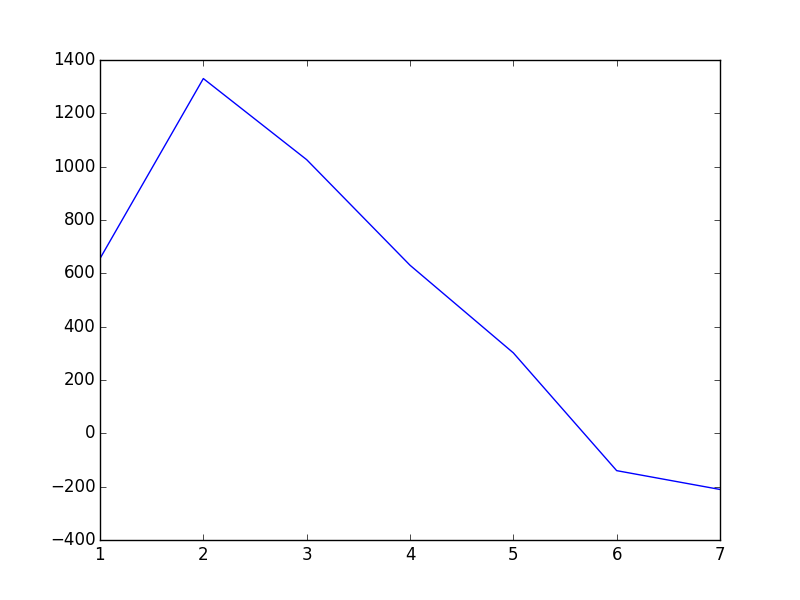
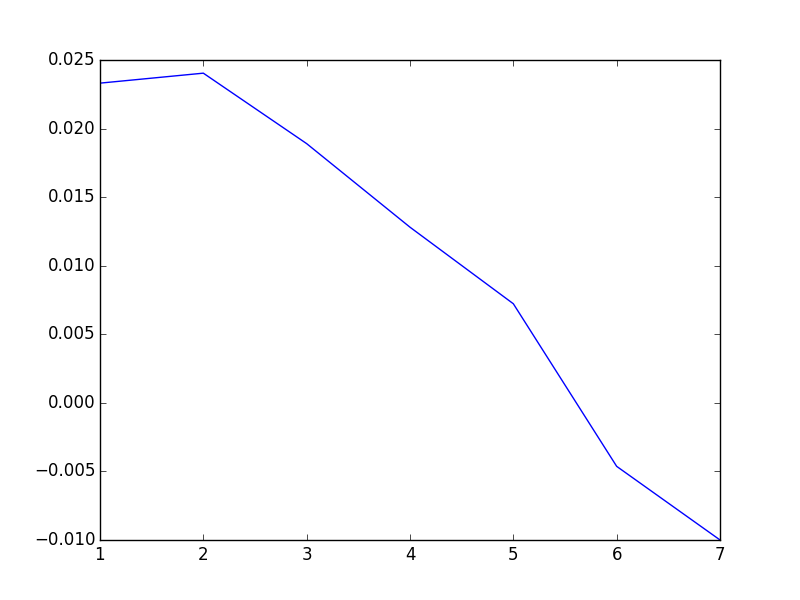
fixed SS utility graphs

diff --git a/Python/OUTPUT/SS_graphs.py b/Python/OUTPUT/SS_graphs.py
@@ -31,12 +31,13 @@ BQ_init = BQ
 Lssmat_init = Lssmat
 cssmat_init = cssmat
 
-beq_ut = chi_b.reshape(S, 1) * (Kssmat2_init**(1-sigma) -1)/(1-sigma)
-beq_ut[0, :] = 0
+savings = np.zeros((S, J))
+savings[:-1, :] = Kssmat2_init[1:, :]
+savings[-1, :] = BQ_init
+
+beq_ut = chi_b.reshape(S, 1) * (mort_rate.reshape(S, 1)) * (savings**(1-sigma) -1)/(1-sigma)
 utility = ((cssmat_init ** (1-sigma) - 1)/(1- sigma)) + chi_n.reshape(S, 1) * (b_ellipse * (1-(Lssmat_init/ltilde)**upsilon) ** (1/upsilon) + k_ellipse)
-utility[-1] += chi_b[-1] * (BQ_init**(1-sigma)-1) / (1-sigma)
-utility += beq_ut * (1- mort_rate.reshape(S, 1))
-# utility *= mort_rate.reshape(S, 1)
+utility += beq_ut 
 beta_string = np.ones(S) * beta
 for i in xrange(S):
     beta_string[i] = beta_string[i] ** i
@@ -157,12 +158,12 @@ variables = pickle.load(open("SS/ss_vars.pkl", "r"))
 for key in variables:
     globals()[key] = variables[key]
 
-beq_ut = chi_b.reshape(S, 1) * (Kssmat2**(1-sigma)-1)/(1-sigma)
-beq_ut[0, :] = 0
+savings = np.zeros((S, J))
+savings[:-1, :] = Kssmat2[1:, :]
+savings[-1, :] = BQ
+beq_ut = chi_b.reshape(S, 1) * (mort_rate.reshape(S, 1)) * (savings**(1-sigma)-1)/(1-sigma)
 utility = ((cssmat ** (1-sigma) - 1)/(1- sigma)) + chi_n.reshape(S, 1) * (b_ellipse * (1-(Lssmat/ltilde)**upsilon) ** (1/upsilon) + k_ellipse)
-utility[-1] += chi_b[-1] * (BQ**(1-sigma)-1) / (1-sigma)
-# utility *= mort_rate.reshape(S, 1)
-utility += beq_ut * (1- mort_rate.reshape(S, 1))
+utility += beq_ut 
 beta_string = np.ones(S) * beta
 for i in xrange(S):
     beta_string[i] = beta_string[i] ** i
@@ -250,13 +251,13 @@ Kssmat_percdif = (Kssmat - kssmatinit)/ kssmatinit
 BQ_percdif = (BQ - BQ_init)/ BQ_init
 Lssmat_percdif = (Lssmat - Lssmat_init)/ Lssmat_init 
 cssmat_percdif = (cssmat - cssmat_init)/ cssmat_init
-utility_dif = utility - utility_init
+utility_dif = (utility - utility_init) / np.abs(utility_init)
 income_dif = (income - income_init) / income_init
 
 
 plt.figure()
 plt.plot(np.arange(J)+1, utility_dif)
-plt.savefig('SS/lifetime_utility_dif')
+plt.savefig('SS/lifetime_utility_percdif')
 
 fig25 = plt.figure()
 ax25 = fig25.gca(projection='3d')
@@ -264,7 +265,7 @@ ax25.set_xlabel(r'age-$s$')
 ax25.set_ylabel(r'ability-$j$')
 ax25.set_zlabel(r'individual savings $\bar{b}_{j,s}$')
 ax25.plot_surface(X2, Y2, Kssmat_percdif.T, rstride=1, cstride=1, cmap=cmap2)
-plt.savefig('SS/capital_dist_dif')
+plt.savefig('SS/capital_dist_percdif')
 
 plt.figure()
 plt.plot(np.arange(J)+1, BQ_percdif)

diff --git a/Python/OUTPUT_income_tax/SS_graphs.py b/Python/OUTPUT_income_tax/SS_graphs.py
@@ -31,12 +31,13 @@ BQ_init = BQ
 Lssmat_init = Lssmat
 cssmat_init = cssmat
 
-beq_ut = chi_b.reshape(S, 1) * (Kssmat2_init**(1-sigma) -1)/(1-sigma)
-beq_ut[0, :] = 0
+savings = np.zeros((S, J))
+savings[:-1, :] = Kssmat2_init[1:, :]
+savings[-1, :] = BQ_init
+
+beq_ut = chi_b.reshape(S, 1) * (mort_rate.reshape(S, 1)) * (savings**(1-sigma) -1)/(1-sigma)
 utility = ((cssmat_init ** (1-sigma) - 1)/(1- sigma)) + chi_n.reshape(S, 1) * (b_ellipse * (1-(Lssmat_init/ltilde)**upsilon) ** (1/upsilon) + k_ellipse)
-utility[-1] += chi_b[-1] * (BQ_init**(1-sigma)-1) / (1-sigma)
-utility *= mort_rate.reshape(S, 1)
-utility += beq_ut * (1- mort_rate.reshape(S, 1))
+utility += beq_ut 
 beta_string = np.ones(S) * beta
 for i in xrange(S):
     beta_string[i] = beta_string[i] ** i
@@ -157,12 +158,12 @@ variables = pickle.load(open("SS/ss_vars.pkl", "r"))
 for key in variables:
     globals()[key] = variables[key]
 
-beq_ut = chi_b.reshape(S, 1) * (Kssmat2**(1-sigma)-1)/(1-sigma)
-beq_ut[0, :] = 0
+savings = np.zeros((S, J))
+savings[:-1, :] = Kssmat2[1:, :]
+savings[-1, :] = BQ
+beq_ut = chi_b.reshape(S, 1) * (mort_rate.reshape(S, 1)) * (savings**(1-sigma)-1)/(1-sigma)
 utility = ((cssmat ** (1-sigma) - 1)/(1- sigma)) + chi_n.reshape(S, 1) * (b_ellipse * (1-(Lssmat/ltilde)**upsilon) ** (1/upsilon) + k_ellipse)
-utility[-1] += chi_b[-1] * (BQ**(1-sigma)-1) / (1-sigma)
-utility *= mort_rate.reshape(S, 1)
-utility += beq_ut * (1- mort_rate.reshape(S, 1))
+utility += beq_ut 
 beta_string = np.ones(S) * beta
 for i in xrange(S):
     beta_string[i] = beta_string[i] ** i
@@ -250,7 +251,7 @@ Kssmat_percdif = (Kssmat - kssmatinit)/ kssmatinit
 BQ_percdif = (BQ - BQ_init)/ BQ_init
 Lssmat_percdif = (Lssmat - Lssmat_init)/ Lssmat_init 
 cssmat_percdif = (cssmat - cssmat_init)/ cssmat_init
-utility_dif = utility - utility_init
+utility_dif = (utility - utility_init) / np.abs(utility_init)
 income_dif = (income - income_init) / income_init
 
 

diff --git a/Python/OUTPUT_wealth_tax/SS_graphs.py b/Python/OUTPUT_wealth_tax/SS_graphs.py
@@ -31,12 +31,13 @@ BQ_init = BQ
 Lssmat_init = Lssmat
 cssmat_init = cssmat
 
-beq_ut = chi_b.reshape(S, 1) * (Kssmat2_init**(1-sigma) -1)/(1-sigma)
-beq_ut[0, :] = 0
+savings = np.zeros((S, J))
+savings[:-1, :] = Kssmat2_init[1:, :]
+savings[-1, :] = BQ_init
+
+beq_ut = chi_b.reshape(S, 1) * (mort_rate.reshape(S, 1)) * (savings**(1-sigma) -1)/(1-sigma)
 utility = ((cssmat_init ** (1-sigma) - 1)/(1- sigma)) + chi_n.reshape(S, 1) * (b_ellipse * (1-(Lssmat_init/ltilde)**upsilon) ** (1/upsilon) + k_ellipse)
-utility[-1] += chi_b[-1] * (BQ_init**(1-sigma)-1) / (1-sigma)
-utility *= mort_rate.reshape(S, 1)
-utility += beq_ut * (1- mort_rate.reshape(S, 1))
+utility += beq_ut 
 beta_string = np.ones(S) * beta
 for i in xrange(S):
     beta_string[i] = beta_string[i] ** i
@@ -157,12 +158,12 @@ variables = pickle.load(open("SS/ss_vars.pkl", "r"))
 for key in variables:
     globals()[key] = variables[key]
 
-beq_ut = chi_b.reshape(S, 1) * (Kssmat2**(1-sigma)-1)/(1-sigma)
-beq_ut[0, :] = 0
+savings = np.zeros((S, J))
+savings[:-1, :] = Kssmat2[1:, :]
+savings[-1, :] = BQ
+beq_ut = chi_b.reshape(S, 1) * (mort_rate.reshape(S, 1)) * (savings**(1-sigma)-1)/(1-sigma)
 utility = ((cssmat ** (1-sigma) - 1)/(1- sigma)) + chi_n.reshape(S, 1) * (b_ellipse * (1-(Lssmat/ltilde)**upsilon) ** (1/upsilon) + k_ellipse)
-utility[-1] += chi_b[-1] * (BQ**(1-sigma)-1) / (1-sigma)
-utility *= mort_rate.reshape(S, 1)
-utility += beq_ut * (1- mort_rate.reshape(S, 1))
+utility += beq_ut 
 beta_string = np.ones(S) * beta
 for i in xrange(S):
     beta_string[i] = beta_string[i] ** i
@@ -250,7 +251,7 @@ Kssmat_percdif = (Kssmat - kssmatinit)/ kssmatinit
 BQ_percdif = (BQ - BQ_init)/ BQ_init
 Lssmat_percdif = (Lssmat - Lssmat_init)/ Lssmat_init 
 cssmat_percdif = (cssmat - cssmat_init)/ cssmat_init
-utility_dif = utility - utility_init
+utility_dif = (utility - utility_init) / np.abs(utility_init)
 income_dif = (income - income_init) / income_init
 
 
